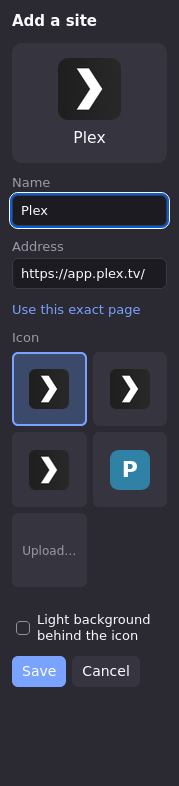
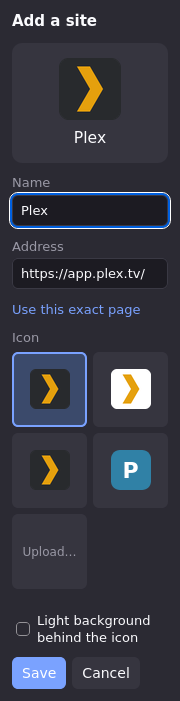
Generate README screenshots from a scene file
- just screenshots: scripts/screenshots.js drives the real add-on in
  headless Firefox and regenerates docs/screenshot-*.png from
  docs/screenshots.json
- All traffic goes through a local proxy serving stand-in pages; each
  site is added through the real editor, so icon sizing and the light
  background come from the add-on itself
- Icons from dashboard-icons (and selfh.st), pinned to a commit
- New family/console shot in light mode; TV shot trimmed to seven sites
- e2e Firefox setup moved to test/e2e/browser.js for reuse

diff --git a/scripts/screenshots.js b/scripts/screenshots.js
@@ -1,0 +1,189 @@
+// Regenerates the README screenshots from docs/screenshots.json: the real
+// extension in headless Firefox, with one of the scene file's site lists
+// added through its own "Add this site" editor.
+//
+// Firefox sends all its traffic through a local proxy, so a site's page is a
+// stand-in served here and nothing reaches the real site. Each stand-in
+// offers the scene's icon for that site, so the add-on picks it, squares it
+// and decides on a light background exactly as it would for the real site.
+// Icons come from the dashboard-icons project, pinned to a commit so they
+// don't change.
+//
+//   node scripts/screenshots.js            all shots
+//   node scripts/screenshots.js editor     shots whose file name contains "editor"
+import fs from "node:fs/promises";
+import http from "node:http";
+import { By, until } from "selenium-webdriver";
+import firefox from "selenium-webdriver/firefox.js";
+import { launch } from "../test/e2e/browser.js";
+
+const SCENE = new URL("../docs/screenshots.json", import.meta.url);
+const OUT = new URL("../docs/", import.meta.url);
+
+const scene = JSON.parse(await fs.readFile(SCENE, "utf8"));
+const only = process.argv[2];
+const shots = scene.shots.filter((s) => !only || s.file.includes(only));
+if (!shots.length) throw new Error(`No shot matches "${only}"`);
+
+// "plex" is a dashboard-icons name; anything with a scheme is used as is.
+const iconUrl = (ref) => (/^https?:/.test(ref) ? ref : `${scene.icons}${ref}.png`);
+const downloads = new Map();
+function download(url) {
+  if (!downloads.has(url))
+    downloads.set(
+      url,
+      fetch(url).then(async (res) => {
+        if (!res.ok) throw new Error(`${res.status} ${url}`);
+        return { type: res.headers.get("content-type"), body: Buffer.from(await res.arrayBuffer()) };
+      }),
+    );
+  return downloads.get(url);
+}
+// Stand-in sites by host, for the shot being taken: a page whose manifest
+// and links point at the scene's icons, the way the real site's would.
+let standIns = new Map();
+const standIn = (url, name, icons) => standIns.set(new URL(url).host, { name, icons });
+const html = (title, head = "") => `<!doctype html><html><head><title>${title}</title>${head}</head><body></body></html>`;
+async function respond(req, res) {
+  const url = new URL(req.url);
+  if (process.env.DEBUG) console.log("proxy", url.href);
+  const send = (type, body, status = 200) => res.writeHead(status, { "content-type": type }).end(body);
+  const site = standIns.get(url.host);
+  if (site) {
+    const { name, icons } = site;
+    const icon = { "/icon.png": icons.manifestIcon, "/touch.png": icons.touchIcon, "/icon.svg": icons.svgIcon }[url.pathname];
+    if (icon) {
+      const { type, body } = await download(iconUrl(icon));
+      return send(type, body);
+    }
+    if (url.pathname === "/manifest.json")
+      return send(
+        "application/manifest+json",
+        JSON.stringify({ short_name: name, start_url: "/", icons: icons.manifestIcon ? [{ src: "/icon.png" }] : [] }),
+      );
+    if (/\.\w+$/.test(url.pathname)) return send("text/plain", "", 404);
+    const links = [
+      '<link rel="manifest" href="/manifest.json">',
+      icons.touchIcon && '<link rel="apple-touch-icon" href="/touch.png">',
+      icons.svgIcon && '<link rel="icon" type="image/svg+xml" href="/icon.svg">',
+    ];
+    return send("text/html", html(name, links.filter(Boolean).join("")));
+  }
+  send("text/html", html(url.host));
+}
+
+const proxy = http.createServer((req, res) =>
+  respond(req, res).catch((e) => {
+    console.error(e);
+    res.writeHead(502).end();
+  }),
+);
+// https is sent here too and refused, so nothing reaches a real site.
+proxy.on("connect", (_req, socket) => socket.end("HTTP/1.1 403 Forbidden\r\n\r\n"));
+await new Promise((resolve) => proxy.listen(0, "127.0.0.1", resolve));
+
+// Pages are stand-ins served over http, so the scene's https addresses are
+// visited as http and nothing upgrades them back.
+const viaProxy = (url) => url.replace(/^https:/, "http:");
+
+const { driver, siteTab, railTab } = await launch({
+  prefs: {
+    "network.proxy.type": 1,
+    "network.proxy.http": "127.0.0.1",
+    "network.proxy.http_port": proxy.address().port,
+    "network.proxy.ssl": "127.0.0.1",
+    "network.proxy.ssl_port": proxy.address().port,
+    // Self-hosted sites in the scene live on localhost.
+    "network.proxy.allow_hijacking_localhost": true,
+    // Most of the scene's sites are on the HSTS preload list.
+    "network.stricttransportsecurity.preloadlist": false,
+    "dom.security.https_first": false,
+    "dom.security.https_first_schemeless": false,
+    // The default for extension pages adds upgrade-insecure-requests.
+    "extensions.webextensions.default-content-security-policy.v3": "script-src 'self';",
+  },
+});
+const $ = (css, ms = 5000) => driver.wait(until.elementLocated(By.css(css)), ms);
+
+async function setTheme(theme) {
+  await driver.setContext(firefox.Context.CHROME);
+  await driver.executeScript(
+    "Services.prefs.setIntPref('layout.css.prefers-color-scheme.content-override', arguments[0]);",
+    theme === "light" ? 1 : 0,
+  );
+  await driver.setContext(firefox.Context.CONTENT);
+}
+
+async function goTo(url) {
+  await driver.switchTo().window(siteTab);
+  await driver.get(viaProxy(url));
+  await driver.switchTo().window(railTab);
+}
+
+// Opens the editor for the site at url and waits for it to find icons. A real
+// click: Firefox only grants the add-on access to sites from user input.
+async function openAdd(url, address) {
+  await goTo(url);
+  await (await $("#add")).click();
+  await driver.wait(async () => (await (await $(".editor .hint")).getText()) !== "Looking for icons…", 10000);
+  // The editor saw the stand-in's http:// address; put the real one back, as
+  // if typed. Focus stays in Name, as when the editor opens.
+  await driver.executeScript(
+    "const el = document.querySelector('input[name=url]'); el.value = arguments[0]; el.dispatchEvent(new Event('input'));",
+    address,
+  );
+}
+
+// Bigger than any shot, so pinning the page's size below never scrolls it.
+await driver.manage().window().setRect({ width: 1000, height: 1400 });
+
+try {
+  for (const shot of shots) {
+    const sites = scene.lists[shot.sites];
+    if (!sites) throw new Error(`${shot.file}: no list "${shot.sites}"`);
+    standIns = new Map();
+    for (const site of sites) standIn(site.url, site.name, { manifestIcon: site.icon });
+    if (shot.add) standIn(shot.page, shot.add.name, shot.add);
+
+    await setTheme(shot.theme ?? scene.theme);
+    await driver.executeAsyncScript(
+      "const done = arguments[arguments.length - 1]; browser.storage.local.clear().then(() => done());",
+    );
+    await driver.navigate().refresh();
+    // The page fills the viewport; pin it to the shot's size instead of
+    // resizing the window, which has a minimum width.
+    const size = (height) =>
+      driver.executeScript(
+        "document.documentElement.style.cssText = `width: ${arguments[0]}px; height: ${arguments[1]}px`;",
+        scene.width,
+        height,
+      );
+    await size(shot.height === "fit" ? 1000 : shot.height);
+
+    for (const [i, site] of sites.entries()) {
+      await openAdd(site.url, site.url);
+      await (await $('button[type="submit"]')).click();
+      await driver.wait(async () => (await driver.findElements(By.css(".tile"))).length === i + 1, 5000);
+    }
+    if (shot.add) {
+      await openAdd(shot.page, shot.add.address);
+    } else {
+      await goTo(shot.page);
+      await $(".tile.active");
+    }
+    // "fit": as tall as the content (the editor), with nothing below it.
+    if (shot.height === "fit")
+      await size(await driver.executeScript("return Math.ceil(document.querySelector('main > *').getBoundingClientRect().bottom);"));
+    // Keep the pointer from hovering anything, and the caret out of the shot.
+    // Two moves: a click doesn't update where the actions API thinks the pointer is,
+    // so a move to its last position would be skipped.
+    await driver.actions().move({ x: 600, y: 900 }).move({ x: 601, y: 901 }).perform();
+    await driver.executeScript("document.documentElement.style.caretColor = 'transparent';");
+    const png = await (await $("html")).takeScreenshot();
+    await fs.writeFile(new URL(shot.file, OUT), png, "base64");
+    console.log(`wrote docs/${shot.file}`);
+  }
+} finally {
+  await driver.quit();
+  proxy.close();
+}

diff --git a/test/e2e/sidebar.test.js b/test/e2e/sidebar.test.js
@@ -1,19 +1,9 @@
-// Drives the real extension in headless Firefox. The sidebar panel itself
-// can't be reached over WebDriver, so the test opens the same page as a tab:
-// there, buttons load into the tab used before it (see targetTab()).
+// Drives the real extension in headless Firefox against local fixture sites.
 import { test, before, after } from "node:test";
 import assert from "node:assert/strict";
-import { execFileSync } from "node:child_process";
-import { Builder, By, until } from "selenium-webdriver";
-import firefox from "selenium-webdriver/firefox.js";
+import { By, until } from "selenium-webdriver";
 import { startFixtures } from "./fixtures.js";
-
-const XPI = new URL("../../dist/siderail.xpi", import.meta.url).pathname;
-const ADDON_ID = "siderail@jonocodes";
-// Pinning the extension's internal UUID gives its pages a known address.
-const UUID = "5e0b1a8c-7d2f-4b61-9a3e-51de0a11c0de";
-const SIDEBAR = `moz-extension://${UUID}/sidebar/sidebar.html`;
-const which = (cmd) => execFileSync("which", [cmd]).toString().trim();
+import { launch } from "./browser.js";
 
 let driver;
 let sites;
@@ -22,30 +12,7 @@ let railTab;
 
 before(async () => {
   sites = await startFixtures();
-  const options = new firefox.Options()
-    .setBinary(process.env.FIREFOX_BIN ?? which("firefox"))
-    .addArguments("-headless")
-    .setPreference("extensions.webextensions.uuids", JSON.stringify({ [ADDON_ID]: UUID }))
-    // Grant optional permissions without a prompt.
-    .setPreference("extensions.webextOptionalPermissionPrompts", false);
-  driver = await new Builder()
-    .forBrowser("firefox")
-    .setFirefoxOptions(options)
-    // System access lets the test open the extension's page from Firefox's own
-    // (chrome) context; WebDriver refuses to navigate a tab to it directly.
-    .setFirefoxService(new firefox.ServiceBuilder(which("geckodriver")).addArguments("--allow-system-access"))
-    .build();
-  await driver.installAddon(XPI, true);
-  siteTab = await driver.getWindowHandle();
-  await driver.get(sites.alpha);
-  await driver.setContext(firefox.Context.CHROME);
-  await driver.executeScript(
-    "gBrowser.selectedTab = gBrowser.addTab(arguments[0], { triggeringPrincipal: Services.scriptSecurityManager.getSystemPrincipal() });",
-    SIDEBAR,
-  );
-  await driver.setContext(firefox.Context.CONTENT);
-  railTab = (await driver.getAllWindowHandles()).find((h) => h !== siteTab);
-  await driver.switchTo().window(railTab);
+  ({ driver, siteTab, railTab } = await launch({ firstUrl: sites.alpha }));
 });
 
 after(async () => {

diff --git a/test/e2e/browser.js b/test/e2e/browser.js
@@ -1,0 +1,45 @@
+// Starts headless Firefox with the built extension and opens the sidebar page
+// as a tab. The sidebar panel itself can't be reached over WebDriver: as a
+// tab, its buttons load into the tab used before it (see targetTab()).
+// Shared by the e2e tests and scripts/screenshots.js.
+import { execFileSync } from "node:child_process";
+import { Builder } from "selenium-webdriver";
+import firefox from "selenium-webdriver/firefox.js";
+
+const XPI = new URL("../../dist/siderail.xpi", import.meta.url).pathname;
+const ADDON_ID = "siderail@jonocodes";
+// Pinning the extension's internal UUID gives its pages a known address.
+const UUID = "5e0b1a8c-7d2f-4b61-9a3e-51de0a11c0de";
+const SIDEBAR = `moz-extension://${UUID}/sidebar/sidebar.html`;
+const which = (cmd) => execFileSync("which", [cmd]).toString().trim();
+
+// Returns the driver and the two window handles: siteTab (where sites load)
+// and railTab (the sidebar page), with railTab selected.
+export async function launch({ firstUrl, prefs = {} } = {}) {
+  const options = new firefox.Options()
+    .setBinary(process.env.FIREFOX_BIN ?? which("firefox"))
+    .addArguments("-headless")
+    .setPreference("extensions.webextensions.uuids", JSON.stringify({ [ADDON_ID]: UUID }))
+    // Grant optional permissions without a prompt.
+    .setPreference("extensions.webextOptionalPermissionPrompts", false);
+  for (const [key, value] of Object.entries(prefs)) options.setPreference(key, value);
+  const driver = await new Builder()
+    .forBrowser("firefox")
+    .setFirefoxOptions(options)
+    // System access lets us open the extension's page from Firefox's own
+    // (chrome) context; WebDriver refuses to navigate a tab to it directly.
+    .setFirefoxService(new firefox.ServiceBuilder(which("geckodriver")).addArguments("--allow-system-access"))
+    .build();
+  await driver.installAddon(XPI, true);
+  const siteTab = await driver.getWindowHandle();
+  if (firstUrl) await driver.get(firstUrl);
+  await driver.setContext(firefox.Context.CHROME);
+  await driver.executeScript(
+    "gBrowser.selectedTab = gBrowser.addTab(arguments[0], { triggeringPrincipal: Services.scriptSecurityManager.getSystemPrincipal() });",
+    SIDEBAR,
+  );
+  await driver.setContext(firefox.Context.CONTENT);
+  const railTab = (await driver.getAllWindowHandles()).find((h) => h !== siteTab);
+  await driver.switchTo().window(railTab);
+  return { driver, siteTab, railTab };
+}

diff --git a/README.md b/README.md
@@ -6,10 +6,12 @@ A Firefox add-on that shows your chosen sites as big buttons in the sidebar. Cli
 - Large icons only. Small favicons look blurry on a big button, so Siderail finds a site's large icons (its web app manifest, Apple touch icon, SVG icon), or you upload one, or it shows a coloured letter.
 - The button for the site in the current tab is highlighted.
 
-It started as a launcher for a living-room PC, but nothing in it is TV-specific.
+It started as a launcher for a living-room PC, but nothing in it is TV-specific: it works just as well as a simple console for someone who only needs a few sites.
 
 <p>
-  <img src="docs/screenshot-sidebar.png" alt="The sidebar with nine streaming and self-hosted services as large buttons, Netflix highlighted" width="180">
+  <img src="docs/screenshot-sidebar.png" alt="The sidebar with seven streaming and self-hosted services as large buttons, Netflix highlighted" width="180">
+  &nbsp;
+  <img src="docs/screenshot-family.png" alt="The sidebar in light mode with Gmail, Docs, NY Times, Wikipedia, Photos and YouTube, Gmail highlighted" width="180">
   &nbsp;
   <img src="docs/screenshot-editor.png" alt="Adding Plex: name, address, and a choice of the icons found on the site, a letter tile or an upload" width="180">
 </p>
@@ -41,6 +43,7 @@ just test       # unit tests
 just e2e        # end-to-end tests in headless Firefox
 just check      # lint + unit + e2e
 just build      # dist/siderail.xpi (unsigned)
+just screenshots  # regenerate the README screenshots
 ```
 
 Firefox loads unsigned add-ons temporarily (`just dev`, or `about:debugging`), so signing only matters for a permanent install.
@@ -63,6 +66,15 @@ Firefox loads unsigned add-ons temporarily (`just dev`, or `about:debugging`), s
   - WebDriver can't reach the real sidebar panel, so the tests open the same page in a tab. There, buttons load into the tab used before it (`targetTab()` in `sidebar.js`).
   - Firefox won't let WebDriver navigate a tab to an extension page, so the test opens it from Firefox's privileged context, which needs geckodriver's `--allow-system-access`.
   - A pref pins the add-on's internal UUID, so its page has a known address.
+
+### Screenshots
+
+`just screenshots` regenerates `docs/screenshot-*.png` from `docs/screenshots.json`, so change that file rather than editing the images. `just screenshots editor` redoes only the shots whose file name contains "editor".
+
+- **What's in them:** the scene file has named site lists (`tv`, `family`) and the shots: which list, the size and theme, the page open in the current tab (its button is highlighted) and, for the editor, the site being added.
+- **Icons** come from [dashboard-icons](https://github.com/homarr-labs/dashboard-icons) by name (`"plex"`), or any URL (NY Times is from [selfh.st/icons](https://github.com/selfhst/icons)), pinned to a commit so the images only change when the scene does. Generating them needs internet access for the icons only.
+- **How:** `scripts/screenshots.js` reuses the e2e setup (`test/e2e/browser.js`) and sends all of Firefox's traffic through a local proxy that serves a stand-in page for each site, so no real site is visited. Each stand-in's manifest offers the scene's icon, and every site is added through the real **+ Add this site** editor, so icon sizing and the light background are decided by the add-on itself. HSTS preloading and https upgrades are turned off for this.
+- Output is byte-identical between runs on the same machine; fonts come from the system, so another machine may differ slightly.
 
 ## Design decisions
 
